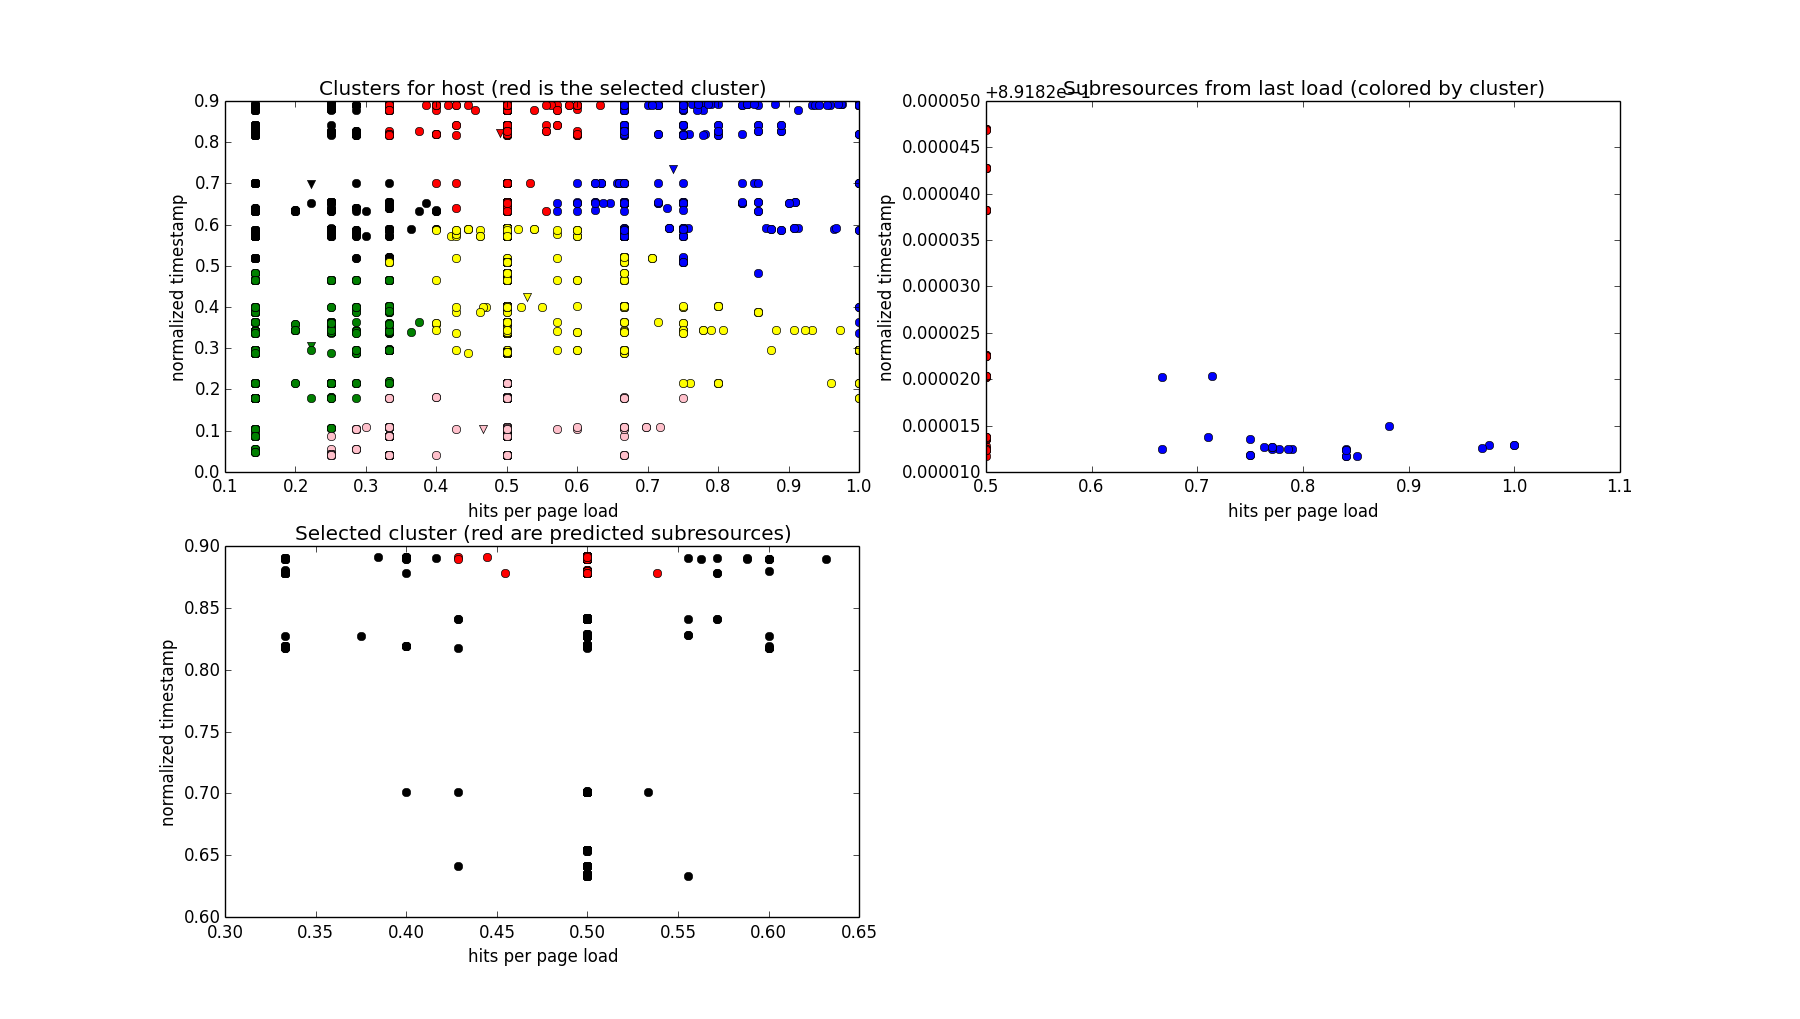
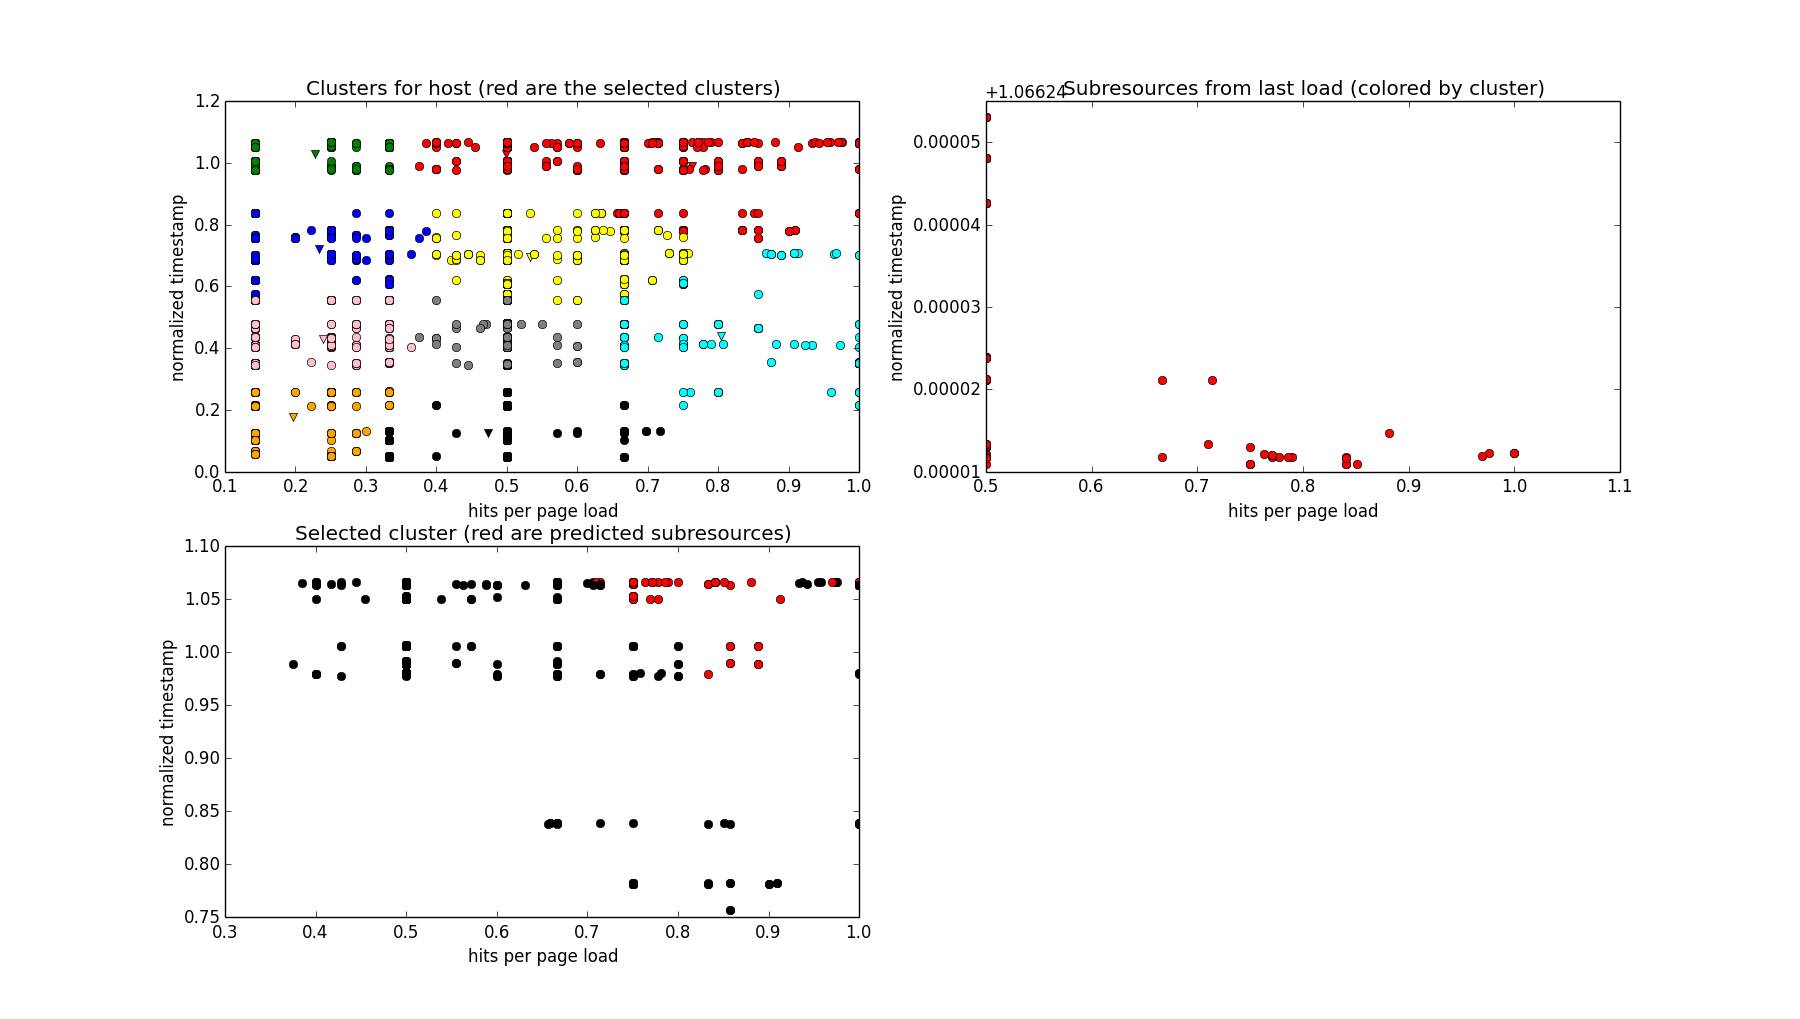
Updated README.

diff --git a/code/moz_kmeans.py b/code/moz_kmeans.py
@@ -345,7 +345,7 @@ def visualize(host, chosen_clusters, predicted, explicit):
                       color = color, marker = 'o')
 
     plot.subplot(221)
-    plot.title('Clusters for host (red is the selected cluster)')
+    plot.title('Clusters for host (red are the selected clusters)')
     plot.xlabel('hits per page load')
     plot.ylabel('normalized timestamp')
 

diff --git a/code/README.md b/code/README.md
@@ -19,7 +19,7 @@ predictive actions based on different events, such as loading pages on
 browser start up and the user hovering a link, I chose to focus the core
 problem that seems to involve most machine learning concepts:
 
-> Given a page that is being loaded, attempt to predict the subresources (images,
+> Given a page that is being loaded, attempt to predict the resources (images,
 > CSS, and JS files) that will be necessary in the near future by that page.
 
 So basically I'm exploring an alternate implementation for the Predict method of
@@ -32,17 +32,17 @@ changes.
 
 # The idea
 
-The basic idea is to group subresources with similar access patterns, and when a
+The basic idea is to group resources with similar access patterns, and when a
 known page is loaded, take predictive actions for the group that has the most
-subresources that are needed for that page.
+resources that are needed for that page.
 
 That is, on a page load, while the current prediction algorithm takes predictive
-actions _exclusively_ for subresources that the page has loaded in the past, I'm
-trying to load _most_ of those subresources, plus a few others that exhibit
+actions _exclusively_ for resources that the page has loaded in the past, I'm
+trying to load _most_ of those resources, plus a few others that exhibit
 a similar access pattern, hoping they will also be needed in the near future.
 
 This added level of fuzziness could make the algorithm better suitable for
-predicting not only the subresources for a page load, but for a _group_ of pages
+predicting not only the resources for a page load, but for a _group_ of pages
 loaded close together in time under a single host.
 
 # The algorithm
@@ -50,90 +50,103 @@ loaded close together in time under a single host.
 At its core, the algorithm is basically an application of k-means clustering
 that is pretty similar to previous work in text classification.
 
-Broadly, whenever a page gets loaded and requests subresources, we make a note
+Broadly, whenever a page gets loaded and requests resources, we make a note
 of that (much like the existing Seer does). Then, for a given host, we cluster
-the subresources loaded by all pages under that host. Whenever a known page is
-visited, we can look up the cluster that has the majority of subresources that
+the resources loaded by all pages under that host. Whenever a known page is
+visited, we can look up the cluster that has the majority of resources that
 page needed the last time it was loaded, and act on those.
 
 Of course, as time passes we will want to account for pages changing and new
-subresources appearing (and existing subresources getting older and less
+resources appearing (and existing resources getting older and less
 relevant). My plan here is to use a sliding window of about two weeks: every so
 often, we'll recalculate the clusters with the data from the past two weeks and
 throw the old data away.
 
-## Describing subresources
+## Describing resources
 
 The k-means algorithm clusters together points in space that are close to each
-other. If we're clustering subresources, we need to somehow describe them as
+other. If we're clustering resources, we need to somehow describe them as
 a feature vector.
 
-Right now I'm using a two-dimensional vector to describe each subresource: a
+Right now I'm using a two-dimensional vector to describe each resource: a
 timestamp and a _relative hit rate_, for lack of a better name.
 
-The timestamp for a subresource is the last hit of that subresource _by any
-page under a domain_ (remember, we're clustering subresources under a domain
+The timestamp for a resource is the last hit of that resource _by any
+page under a domain_ (remember, we're clustering resources under a domain
 regardless of the referring page). The timestamp is normalized using the length
 of the sliding window, so it's a number between 0 and 1.
 
 By throwing away older timestamps, I'm probably leaving out too much
-information, so I'll reconsider this in the near future.
+information, so I'll reconsider this in the future.
 
-The relative hit rate is the number of times a given subresource has been
+The relative hit rate is the number of times a given resource has been
 loaded, divided by the number of times the pages that loaded it were themselves
 loaded. Aside from some weird corner cases, this is usually a number between 0
 and 1.
 
 Intuitively, the timestamp gives us a measure of global relevance for a
-subresource -- how important it is for this whole host --, while the relative
-hit rate gives us a local relevance -- how important this subresource is for
+resource -- how important it is for this whole host --, while the relative
+hit rate gives us a local relevance -- how important this resource is for
 pages that need it.
 
-One problem with calculating the relative hit rate as above is that a
-subresource that is accessed 1000 times by 1000 pages, once by each page, has
-the same rate as one that is accessed once by one single page.
+One problem with calculating the relative hit rate as above is that a resource
+that is accessed 1000 times by 1000 pages, once by each page, has the same rate
+as one that is accessed once by one single page. To counter this, I'm making
+the denominator in that ratio _biased_ by adding a host-dependent value to it,
+which is the mode of the number of hits for all pages in the host.
 
-To counter this, I'm considering summing a bias number to the denominator when
-calculating the relative hit rate, such that new subresources start out with a
-low relative hit rate, and subresources with a high relative hit rate are
-guaranteed to be actually important. I'm currently looking for a good way to
-derive an adaptive bias that can be changed every time the clustering is
-re-made.
+The intuition is that if, for a given resource, all pages that load it have a
+total number of hits not much larger than 5, and if for that host most pages
+have 5 hits by themselves, then either that resource has been accessed by not
+many more than one page, or it has been accessed by several pages that have
+extraordinarily low number of hits. Either way, the resource is penalized, even
+though it may have been hit 5 times and would have had a relative hit rate of
+1.0 if it wasn't for the bias.
+
+I also experimented a bit with using a measure of sharing -- for each resource,
+the number of pages that load it, divided by the total number of pages in the
+host. However, since for many hosts, and YouTube in particular, there is little
+resource sharing among different pages, this ratio turned out to be very small
+and to have very little variance, so it was difficult to normalize and handle. I
+may revisit this later, but for now I'm hoping most of the 'sharing' information
+is captured by the biased relative hit rate.
 
 Note that all information we need here is already being collected by the Seer.
 
 ## Choosing a cluster
 
-Whenever a known page is loaded, I'm simply looking up the cluster that contains
-most of the subresources that were requested by that page _in its last load_. An
-alternative could be to use the cluster that has most of the subresources the
-page _has ever requested_; that's closer to what the Seer algorithm currently
-does.
+As issue 1 pointed out, it is important for the prediction algorithm to actually
+predict most of the resources that are known to be associated with a given page
+when that page is loaded. I have since attempted to improve the algorithm in
+that direction, while still maintaining a (configurable) amount of fuzziness.
 
-An interesting remark to be made here is that, while we don't expect all
-subresources for a given page to fall on the same cluster, we do expect them to
-group together to some extent -- as they obviously exhibit a similar access
-pattern. In my (informal) tests, I have observed that that's indeed the case:
-out of 6 clusters, the chosen cluster usually contains over 60% of the subresources.
+Whenever a known page is loaded, we're looking up the three clusters that best
+cover the resources that were requested by that page _in its last load_. An
+alternative could be to use the cluster that has most of the resources the page
+_has ever requested_; that's closer to what the Seer algorithm currently does.
 
-The clustering also has the nice property that per-host "important"
-subresources, those with high timestamp and relative hit rate, will cluster
-together. Perhaps this "important" cluster can be used to take predictive
-actions when a page that is _not_ known to the algorithm is first loaded.
+Then, the subclusters under those selected clusters are considered recursively:
+we pick the three that best cover the resources that were covered in the
+previous step, and use them, along with the covered resources, as a prediction.
 
-Once a cluster (which is in essence a set of subresources) is chosen, it's still
-unclear to me how to prioritize them when choosing which predictive action to
-take for each.
+Thus in the first cluster selection we're narrowing down (or shrinking) our
+search space from all resources under that host to those that best correlate
+with the page. Then in the second cluster selection we grow the group of
+predicted resources from the ones covered (which are typically over 90% of the
+ones actually loaded by the page) by adding some other, related resources.
 
-## Hierarchical clustering
+Since we may not want this growth to be unbounded, as we only pick whole
+subclusters and even with hierarchical clustering some subclusters have over
+400 resources, we're only picking enough resources so that the total prediction
+size is smaller than 1.5 times the covered resources. There may be a smarter way
+to do this without resorting to the 0-1 knapsack problem like I am.
 
-One problem I've experienced in my tests is that sometimes the generated
-clusters are quite big, containing around a thousand subresources. I'm
-experimenting with dividing each cluster into smaller subclusters and taking
-enough subclusters to cover the set of subresources needed by the page.
-
-This seems to reduce the number of subresources selected for predictive actions
-by about half, but I still need to experiment with it some more.
+The clustering also has the nice property that per-host "important" resources,
+those with high timestamp and relative hit rate, will cluster together. So when
+a page that is _not known_ is requested, one option could be to pick the
+clusters and subclusters that are closer to point (1, 1) in the same recursive
+way we do for known pages, and use that as a prediction. This behavior is
+currently implemented in this repository as well.
 
 # What it looks like
 
@@ -146,17 +159,16 @@ and copying the sqlite database from the profile directory. This database is at
 `youtube.seer.sqlite` in this repository.
 
 The script `moz_kmeans.py` implements the algorithm described in this document.
-It uses a relative hit rate bias of 1.0, and hierarchical clustering with k = 6. Be
-advised that the code, having been through constant change in the past weeks,
-is... disorganized, to say the least. Its dependencies are opencv (for their
-k-means implementation), matplotlib and numpy.
+It uses 10 clusters, and 10 subclusters for each of these clusters. Its
+dependencies are opencv (for their k-means implementation), matplotlib and
+numpy.
 
 You can run it with:
 
-`python moz_kmeans.py youtube.seer.sqlite <some page in the database>`
+`python moz_kmeans.py predict youtube.seer.sqlite <some page in the database>`
 
 to simulate accessing that page. It should output some statistics and display a
-few graphics displaying the clusters and the subresources that were predicted.
+few graphics displaying the clusters and the resources that were predicted.
 
 For example, this is what happens when you use page
 <http://www.youtube.com/watch?v=Q8Tiz6INF7I>, which I only visited once, but was
@@ -164,29 +176,75 @@ the last one I visited:
 
 ![http://www.youtube.com/watch?v=Q8Tiz6INF7I](img/new.png)
 
-Notice how, in the top leftmost graph, its subresources are fresh (high
+Notice how, in the top leftmost graph, its resources are fresh (high
 timestamp) but, because of the bias, have only an average relative hit rate.
 
-For this particular run (results may vary a little because k-means is not
-deterministic), the selected cluster had 1224 subresources and contained 60
-out of the 85 subresources the page loaded last time. Using hierarchical
-clustering, we were able to narrow the number of subresources to predict down to
-479. These statistics are printed to the terminal.
+I haven't had time to make this visualization better after changing the
+algorithm to pick multiple clusters instead of one, so right now you can't
+really see which individual clusters were picked inside the red mass of three
+clusters. Sorry about that.
 
-This is what happens with the oldest page in the dataset:
+For this particular run (results may vary a little because k-means is not
+deterministic), 123 resources were predicted, containing all 85 resources that
+were requested by the page when it was last loaded. These statistics are
+printed to the terminal.
+
+This is what happens with the oldest page in the dataset,
+<http://www.youtube.com/watch?v=jJj0FAUcqj4>:
 
 ![http://www.youtube.com/watch?v=jJj0FAUcqj4](img/old.png)
 
-Notice how its subresources "floated down" in the graph as they got older and
-were not shared by other pages. I expect subresources to float to the bottom
-left as they lose importance.
+Here, 80 resources were predicted, out of which 56 had been loaded by the page
+last time it was loaded. The total number of resources loaded by the page in its
+last load was 59, so the prediction brought in 94.92% of those.
 
 Feel free to poke around with the other pages in the database.
 
+The script `plot_predicted_and_explicit.py` also plots some aggregate statistics
+for the whole database. It can be run with:
+
+`python plot_predicted_and_explicit.py youtube.seer.sqlite <some page regex>`
+
+It will then request predictions for all pages that match the regex and plot the
+relationship between the resources that the page actually loaded in its last
+load (called the _explicit_ resources here) and the ones predicted.
+
+These are the graphs for when we run:
+
+`python plot_predicted_and_explicit.py youtube.seer.sqlite 'http://www.youtube.com/.*'`
+
+![aggregate statistics](img/aggregate.png)
+
+The top left graph shows how the number of predicted resources grows linearly
+with the number of explicit resources. This was a very ugly scattered plot
+before I implemented the different cluster picking algorithm.
+
+The top right histogram shows the size of the explicit set of resources when
+compared to the set of predicted resources; the closer that is to 1, the less
+fuzzy we're being. All bins are above 0.65 because of the growth limiting in
+described above.
+
+Finally, the bottom left histogram shows the accuracy of the algorithm: the ratio of
+explicit resources that were also predicted. For almost all pages that
+ratio is over 0.8, which means 80% of the explicit resources were predicted.
+
+Note that we could also bring this ratio up to 1.0 artificially by always
+predicting all resources from the last load, along with the cluster cover, if
+necessary.
+
+Finally, the `moz_kmeans.py` script can be made to watch a given database, with:
+
+`python moz_kmeans.py watch <database file>`
+
+This will make it recalculate the clusters and predictions for all known pages
+every minute, and dump it all in two new tables -- `moz_page_predictions` and
+`moz_host_predictions`. My [mozilla-central
+tree](https://github.com/guilherme-pg/mozilla-central/tree/network-seer)
+contains a patched version of the Seer that uses these tables for the
+predictions, so we can actually run the browser using my algorithm for testing.
+
 # Next steps
 
-I still need to iron out the unanswered questions I documented here, and after
-that I'd like to start working on some tentative patches for the browser.
-
-I'm very open to any feedback, of course, and there's still time to change the
-algorithm significantly if necessary.
+I think the next step would really be to figure out a way to test the effect of
+this algorithm versus the current one. Maybe an interesting baseline would also
+be to predict all resources from a page's last load, always.
